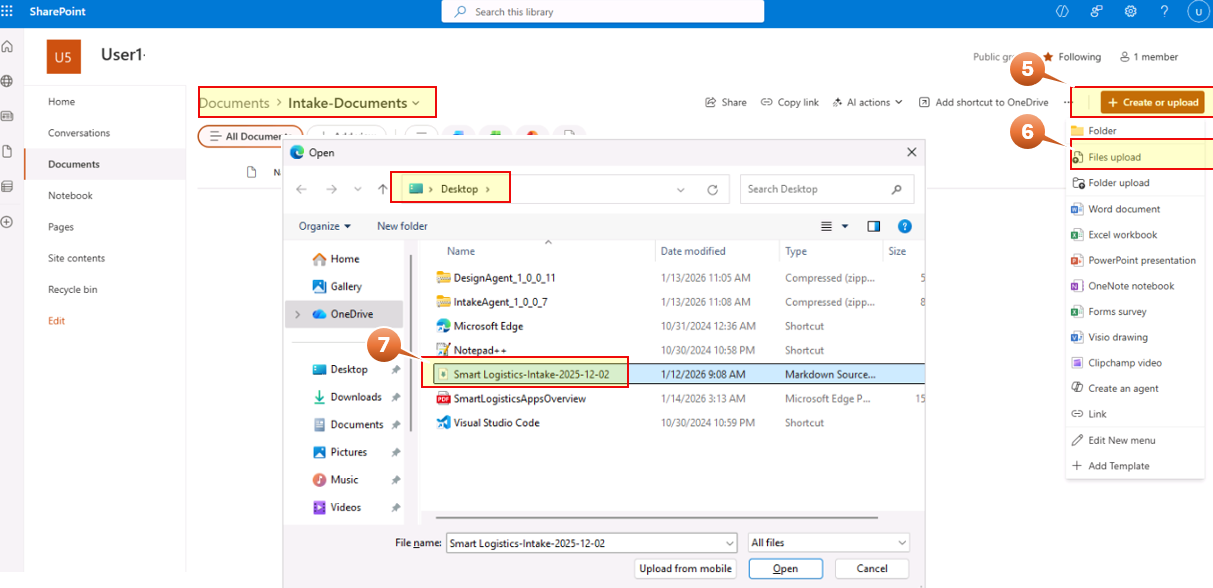
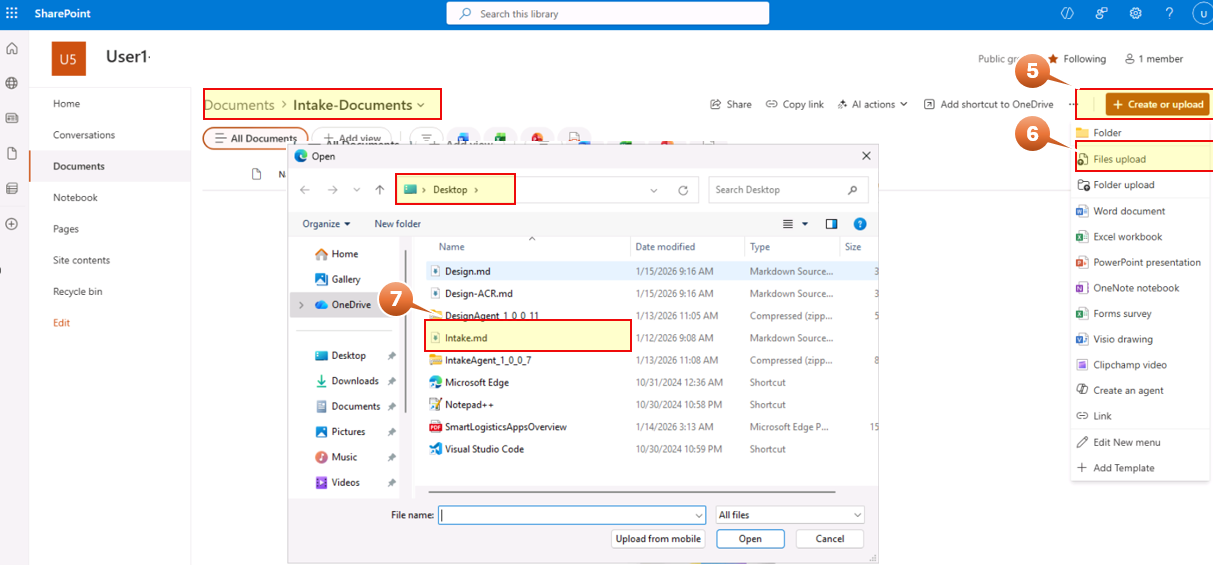
Module 7 images udpated module 10 format

diff --git a/lab/instructions/module8-agent-output.md b/lab/instructions/module8-agent-output.md
@@ -1,11 +1,11 @@
-# Module 8: Understanding the Output
+# Module 8: Understanding the Output (3 minutes)
 
 ## Step 8.1: Introduction Section
 
 The generated document begins with a formal introduction:
 
 ```markdown
-# 📦 SmartLogistics — Target Azure Architecture Details
+# SmartLogistics — Target Azure Architecture Details
 
 **Prepared for:** [Consultant Name]
 **Regions:** primary eastus2, failover westeurope
@@ -14,7 +14,7 @@ The generated document begins with a formal introduction:
 
 ---
 
-## 🧭 Introduction
+## Introduction
 
 SmartLogistics is a cloud-first logistics platform that provides 
 real-time shipment tracking, analytics, and deep...
@@ -24,7 +24,7 @@ real-time shipment tracking, analytics, and deep...
 
 Documents the main data movement patterns:
 
-🔄 Data Flows
+**Data Flows**
 
 Real-time GPS telemetry is ingested through secure APIs and streaming 
 endpoints, normalized, and persisted in a document database optimized 
@@ -96,7 +96,7 @@ The agent generates five standardized architecture views whit these Key Elements
 
 Explains design decisions aligned with best practices:
 
-**📝 Rationales**
+**Rationales**
 
 **Security and Compliance:** The design adopts a zero trust posture with 
 identity-driven access, Private Link for data plane isolation, and 
@@ -123,7 +123,7 @@ reducing custom code and improving observability.
 
 The final section provides deployment-ready resource specifications:
 
-**📊 Azure Resource Table — Visual**
+**Azure Resource Table — Visual**
 
 
 | Resource Name | Resource Type | SKU | Regions |
@@ -139,4 +139,4 @@ The final section provides deployment-ready resource specifications:
 
 
 
-> 📋 **Note:** The resource table is provided in both Markdown and plain text formats for compatibility with deployment automation tools.
+>  **Note:** The resource table is provided in both Markdown and plain text formats for compatibility with deployment automation tools.

diff --git a/lab/instructions/module5-autonomous-agent-mode.md b/lab/instructions/module5-autonomous-agent-mode.md
@@ -112,7 +112,7 @@ We are ready to upload a document into SharePoint to make our Agent generates a 
 
 5. Upload the document. Click on **Create or upload** on the right
 6. Click on **Files upload**
-7. Select the **Smart Logistics-Intake-2025-12-02** file frome the Desktop and click  **Open**
+7. Select the **Intake.md** file frome the Desktop and click  **Open**
 
     ![UploadFile](5.2_7-UploadFile.png)
 
@@ -145,3 +145,6 @@ We are ready to upload a document into SharePoint to make our Agent generates a 
 14. Go back to SharePoint and open the **Architecture-Documents** folder. Here you'll find the Architecture Design Document file **Smart Logistics-Target-Azure** generated and allocated in this path by the Agent
 
     ![ArchitectureDocument](5.2_14-ArchitectureDocument.png)
+
+    In case the Agent is taking long to respond there is a copy of the output on your desktop named **Design.md**
+

diff --git a/lab/instructions/module3-knowledge-base-setup.md b/lab/instructions/module3-knowledge-base-setup.md
@@ -26,5 +26,3 @@ The App Intake Agent and Application Design Agent use a knowledge file to ensure
 
     > 📄 **Knowledge File Purpose:** This text-based file guides the agent to produce resource configuration tables in a format compatible with the deployment agent.
 
-Congratulations, you've completed all steps of this module.
-You can move to Module 4-Design Agent usage

diff --git a/lab/instructions/module9-publishing-to-channels.md b/lab/instructions/module9-publishing-to-channels.md
@@ -1,4 +1,4 @@
-# Module 9: Publishing to Channels
+# Module 9: Publishing to Channels (3 minutes)
 
 Once you have configured and tested the Design Agent, you can publish it to various channels to make it accessible to architects and consultants across your organization.
 

diff --git a/lab/instructions/module2-connection-configuration.md b/lab/instructions/module2-connection-configuration.md
@@ -1,4 +1,4 @@
-# Module 2: Connection Configuration (11 minutes)
+# Module 2: Connection Configuration (10 minutes)
 
 After importing the solution, you must establish connections for the agent to function correctly.
 

diff --git a/lab/instructions/module1-Solution-Import.md b/lab/instructions/module1-Solution-Import.md
@@ -99,4 +99,3 @@ Let's continue with the Application Design Agent. Don't need to close this windo
 
    ![WebSearch](1.2.2_3-WebSearch.png)
 
-Congratulations! All Solutions are imported. You can keep open the Edge 

diff --git a/lab/instructions/module7-cost-estimation.md b/lab/instructions/module7-cost-estimation.md
@@ -1,4 +1,4 @@
-# Module 7:  Design Agent adding Cost Estimation Topic
+# Module 7:  Design Agent adding Cost Estimation Topic (10 minutes)
 
 ## Option 1: Add Cost Estimation Section
 

diff --git a/lab/instructions/module10-appendix-troubleshooting.md b/lab/instructions/module10-appendix-troubleshooting.md
@@ -1,4 +1,4 @@
-# Appendix: Troubleshooting
+# Appendix: Troubleshooting (3 minutes)
 
 ## Common Issues and Solutions
 
